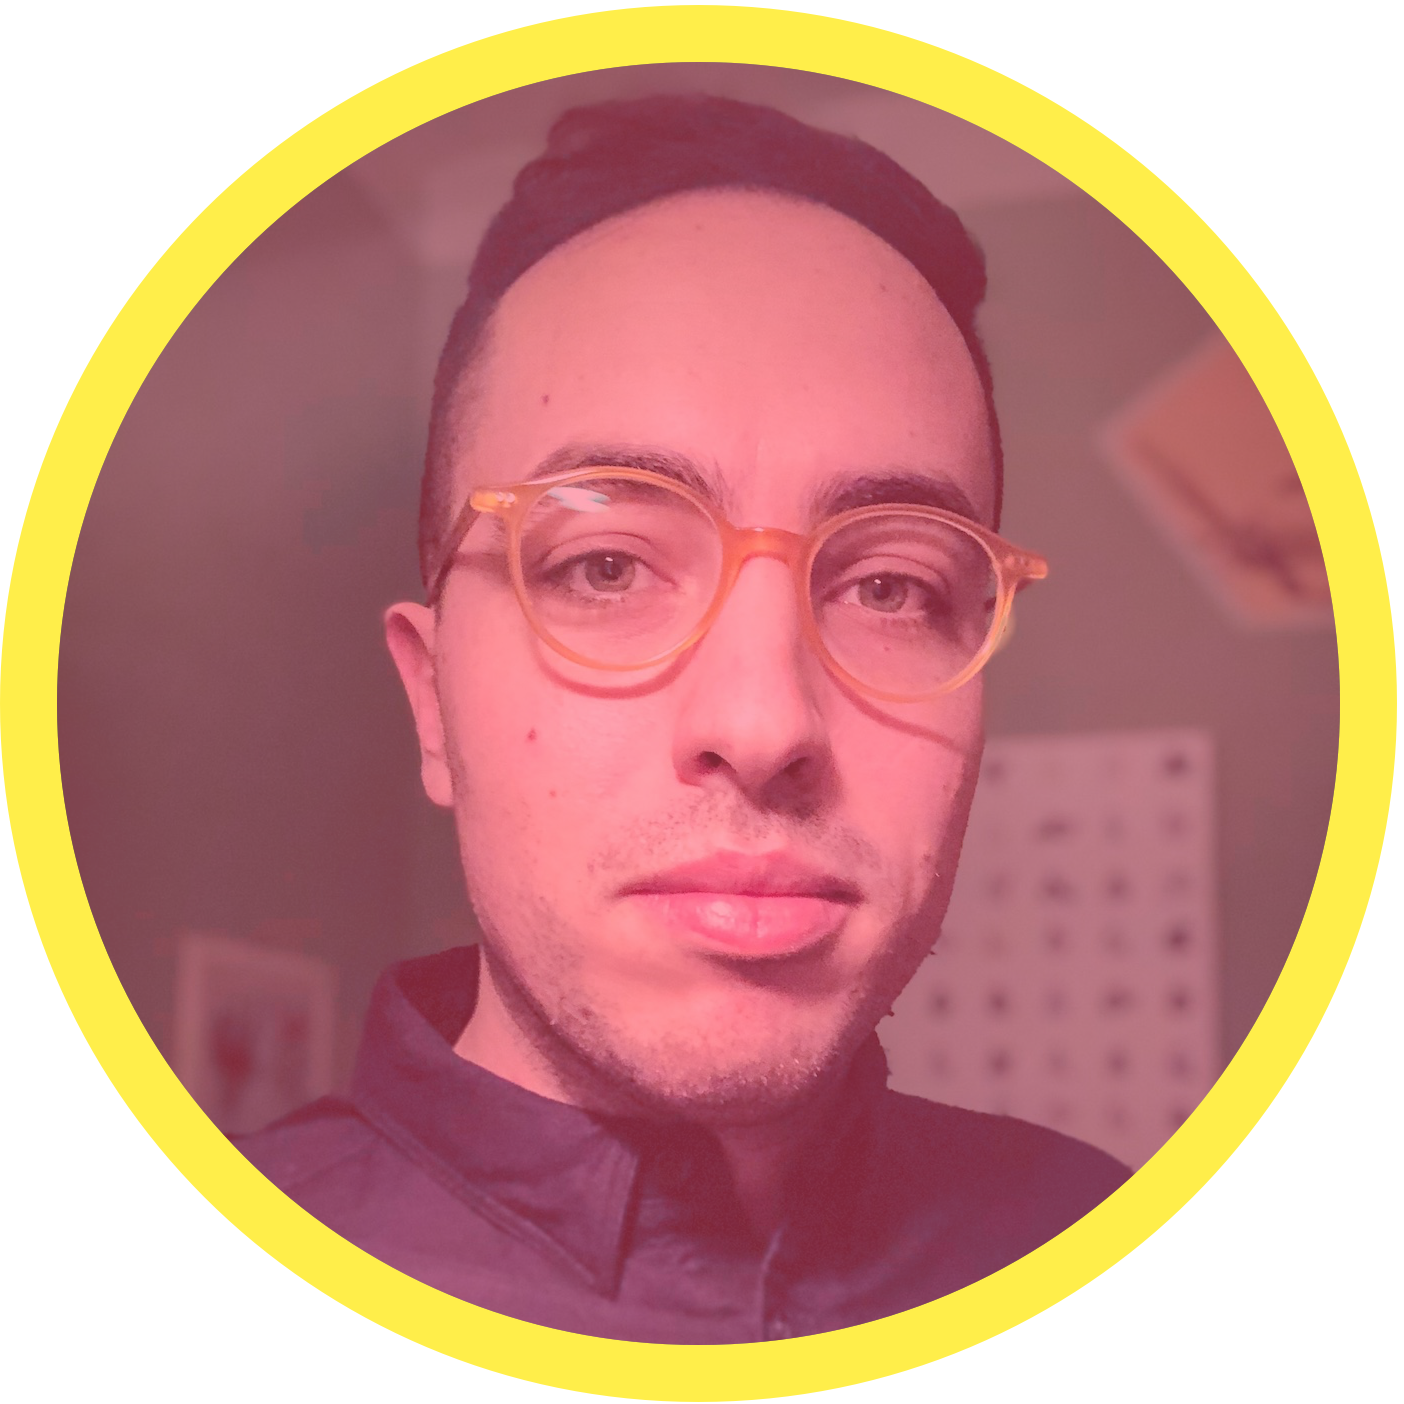
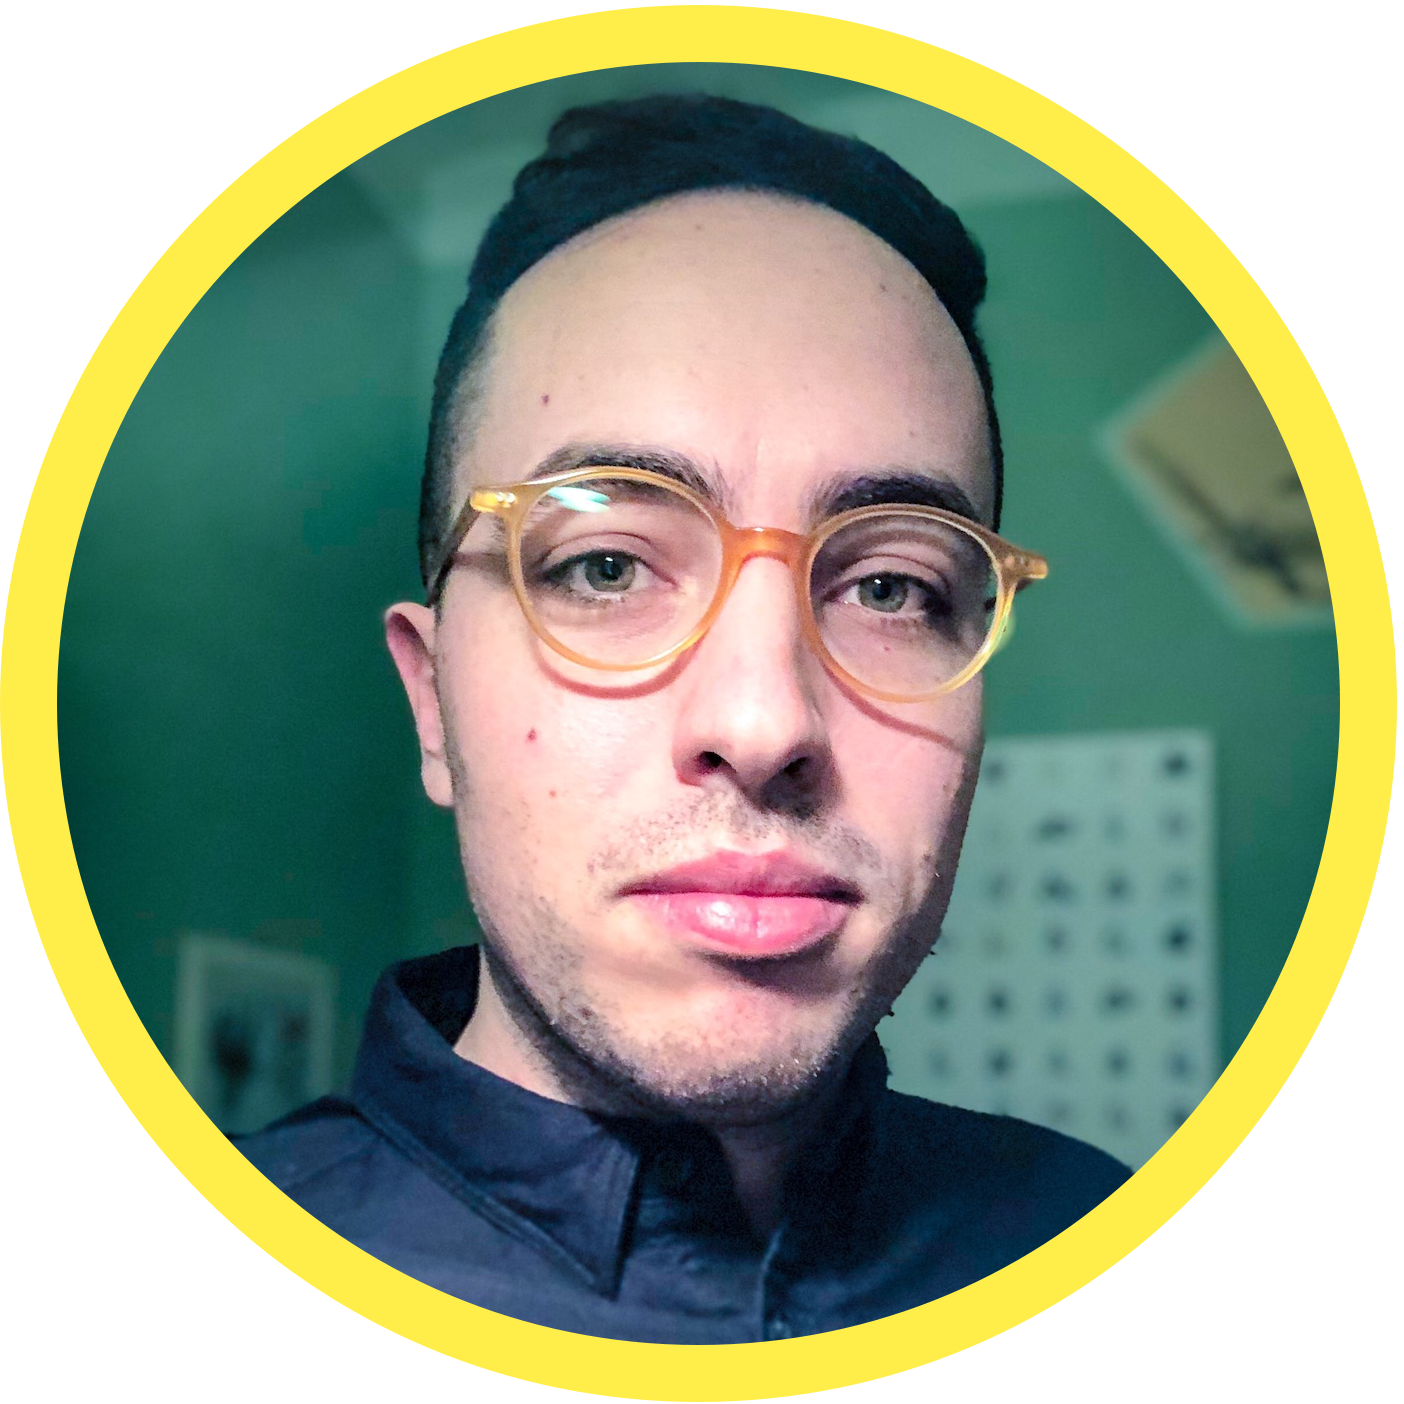
re-arranged images

diff --git a/slides.md b/slides.md
@@ -7,7 +7,7 @@
 
 ---
 
-![right 35%](images/me.png)
+![right 35%](images/me_pink.png)
 
 #[fit] Hi
 #[fit] I'm __Max__ Gallo
@@ -74,7 +74,7 @@ more: **maxgallo.io**
 
 # [fit] Derivation _**Graph**_                       
 
-![inline](diagrams/derivationGrapha.pdf)
+![inline](diagrams/derivationGraph1.pdf)
 
 observable __**<<--**__ **reaction**
 
@@ -82,7 +82,7 @@ observable __**<<--**__ **reaction**
 
 # [fit] Derivation _**Graph**_                       
 
-![inline](diagrams/derivationGraphb.pdf)
+![inline](diagrams/derivationGraph2.pdf)
 
 observable __**<<--**__ **reaction**       **observable** __**-->>**__ reaction
 
